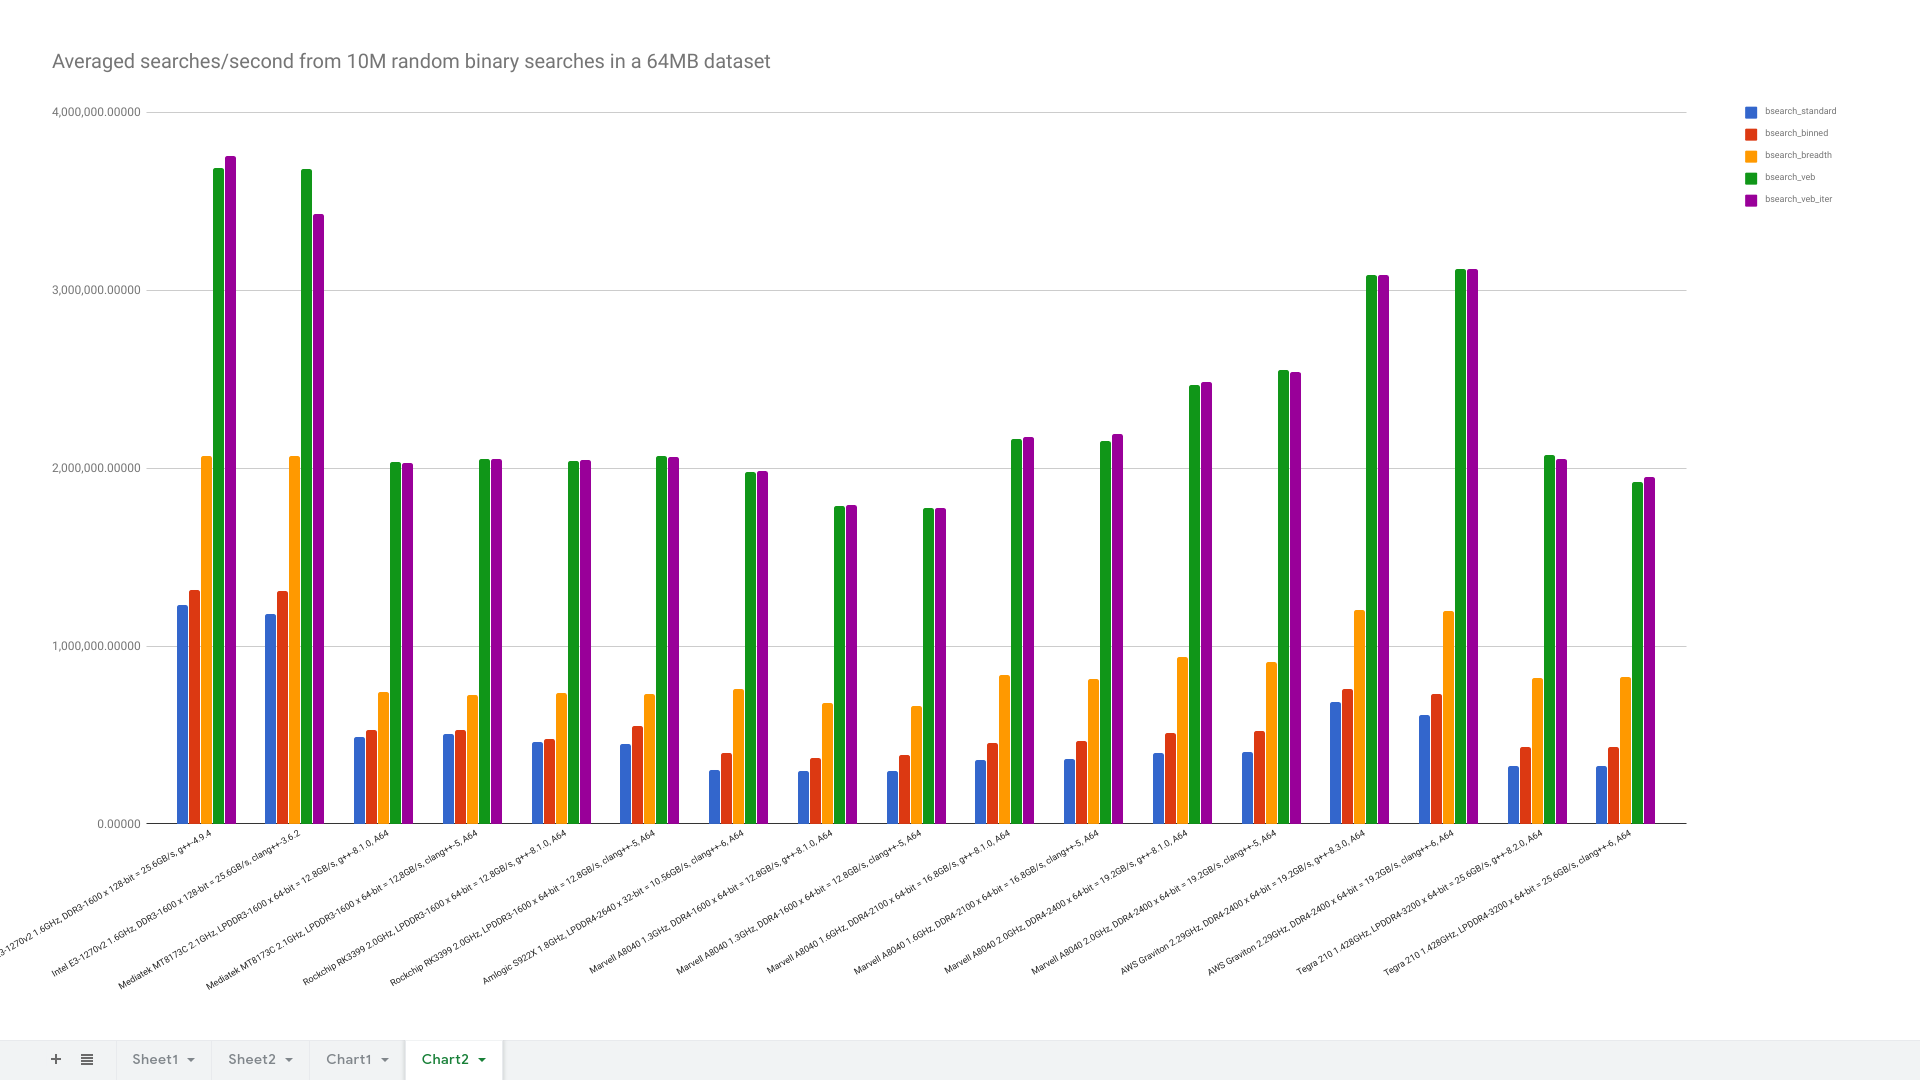
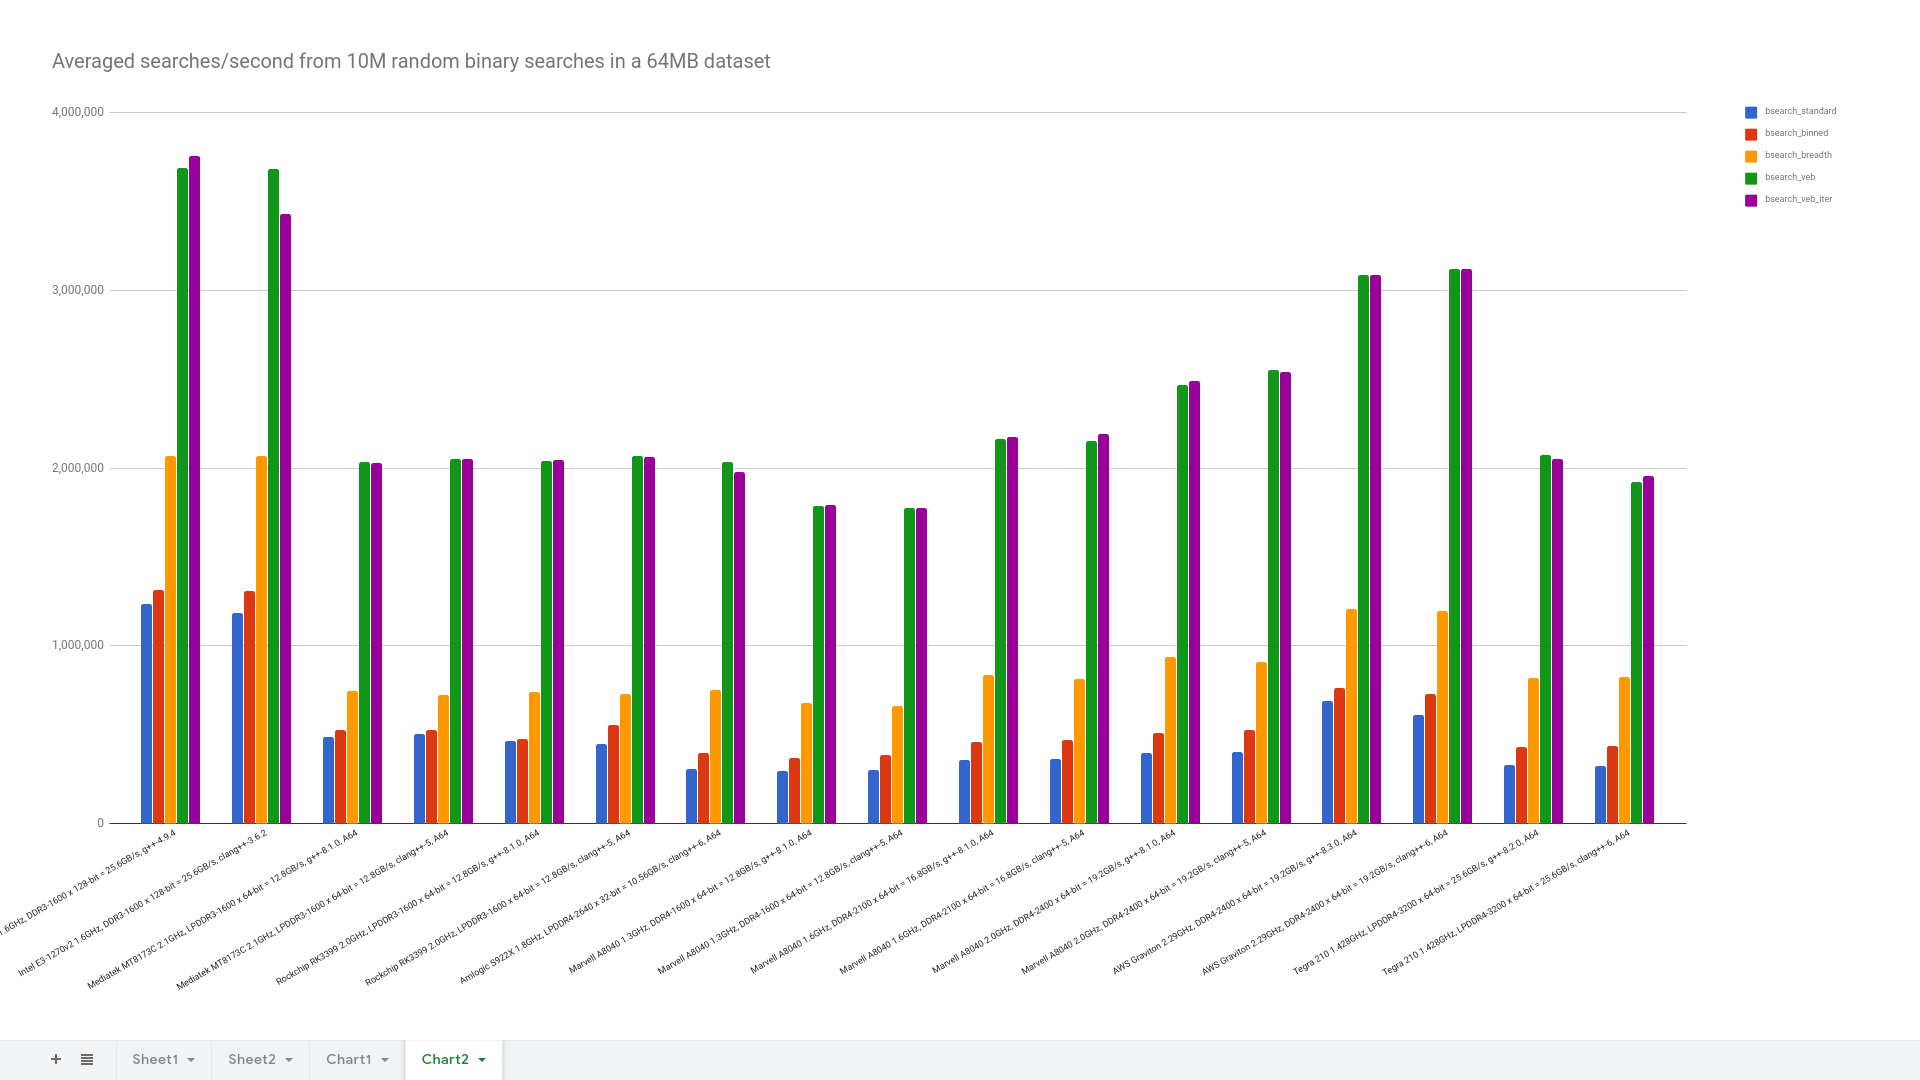
* update S922X results * fix typo in readme

Changed region(s): [[0.0, 0.1528, 0.875, 0.9167], [0.625, 0.8861, 0.6562, 0.9167]]

diff --git a/README.md b/README.md
@@ -57,10 +57,10 @@ Averaged searches/second from 10M random binary searches in a 64MB dataset -- se
 | Intel E3-1270v2 1.6GHz, DDR3-1600 x 128-bit = 25.6GB/s, g++-4.9.4          |        1,233,215 |        1,314,080 |        2,067,070 |        3,686,770 |        3,754,413 |
 | Intel E3-1270v2 1.6GHz, DDR3-1600 x 128-bit = 25.6GB/s, clang++-3.6.2      |        1,182,673 |        1,307,087 |        2,066,907 |        3,682,098 |        3,431,577 |
 | Mediatek MT8173C 2.1GHz, LPDDR3-1600 x 64-bit = 12.8GB/s, g++-8.1.0, A64   |          490,095 |          526,391 |          744,652 |        2,035,683 |        2,031,427 |
-| Mediatek MT8173C 2.1GHz, LPDDR3-1600 x 64-bit = 12,8GB/s, clang++-5, A64   |          505,499 |          526,628 |          724,331 |        2,051,007 |        2,052,157 |
+| Mediatek MT8173C 2.1GHz, LPDDR3-1600 x 64-bit = 12.8GB/s, clang++-5, A64   |          505,499 |          526,628 |          724,331 |        2,051,007 |        2,052,157 |
 | Rockchip RK3399 2.0GHz, LPDDR3-1600 x 64-bit = 12.8GB/s, g++-8.1.0, A64    |          462,760 |          478,643 |          738,867 |        2,038,539 |        2,046,880 |
 | Rockchip RK3399 2.0GHz, LPDDR3-1600 x 64-bit = 12.8GB/s, clang++-5, A64    |          450,501 |          552,473 |          729,131 |        2,069,239 |        2,064,636 |
-| Amlogic S922X 1.8GHz, LPDDR4-2640 x 32-bit = 10.56GB/s, clang++-6, A64     |          304,725 |          396,877 |          759,732 |        1,977,061 |        1,982,474 |
+| Amlogic S922X 1.8GHz, LPDDR4-2640 x 32-bit = 10.56GB/s, clang++-6, A64     |          304,954 |          396,626 |          753,789 |        2,035,342 |        1,976,181 |
 | Marvell A8040 1.3GHz, DDR4-1600 x 64-bit = 12.8GB/s, g++-8.1.0, A64        |          295,051 |          371,600 |          681,139 |        1,787,888 |        1,795,045 |
 | Marvell A8040 1.3GHz, DDR4-1600 x 64-bit = 12.8GB/s, clang++-5, A64        |          299,796 |          385,103 |          662,800 |        1,775,231 |        1,776,729 |
 | Marvell A8040 1.6GHz, DDR4-2100 x 64-bit = 16.8GB/s, g++-8.1.0, A64        |          357,403 |          457,187 |          835,043 |        2,164,438 |        2,174,108 |
